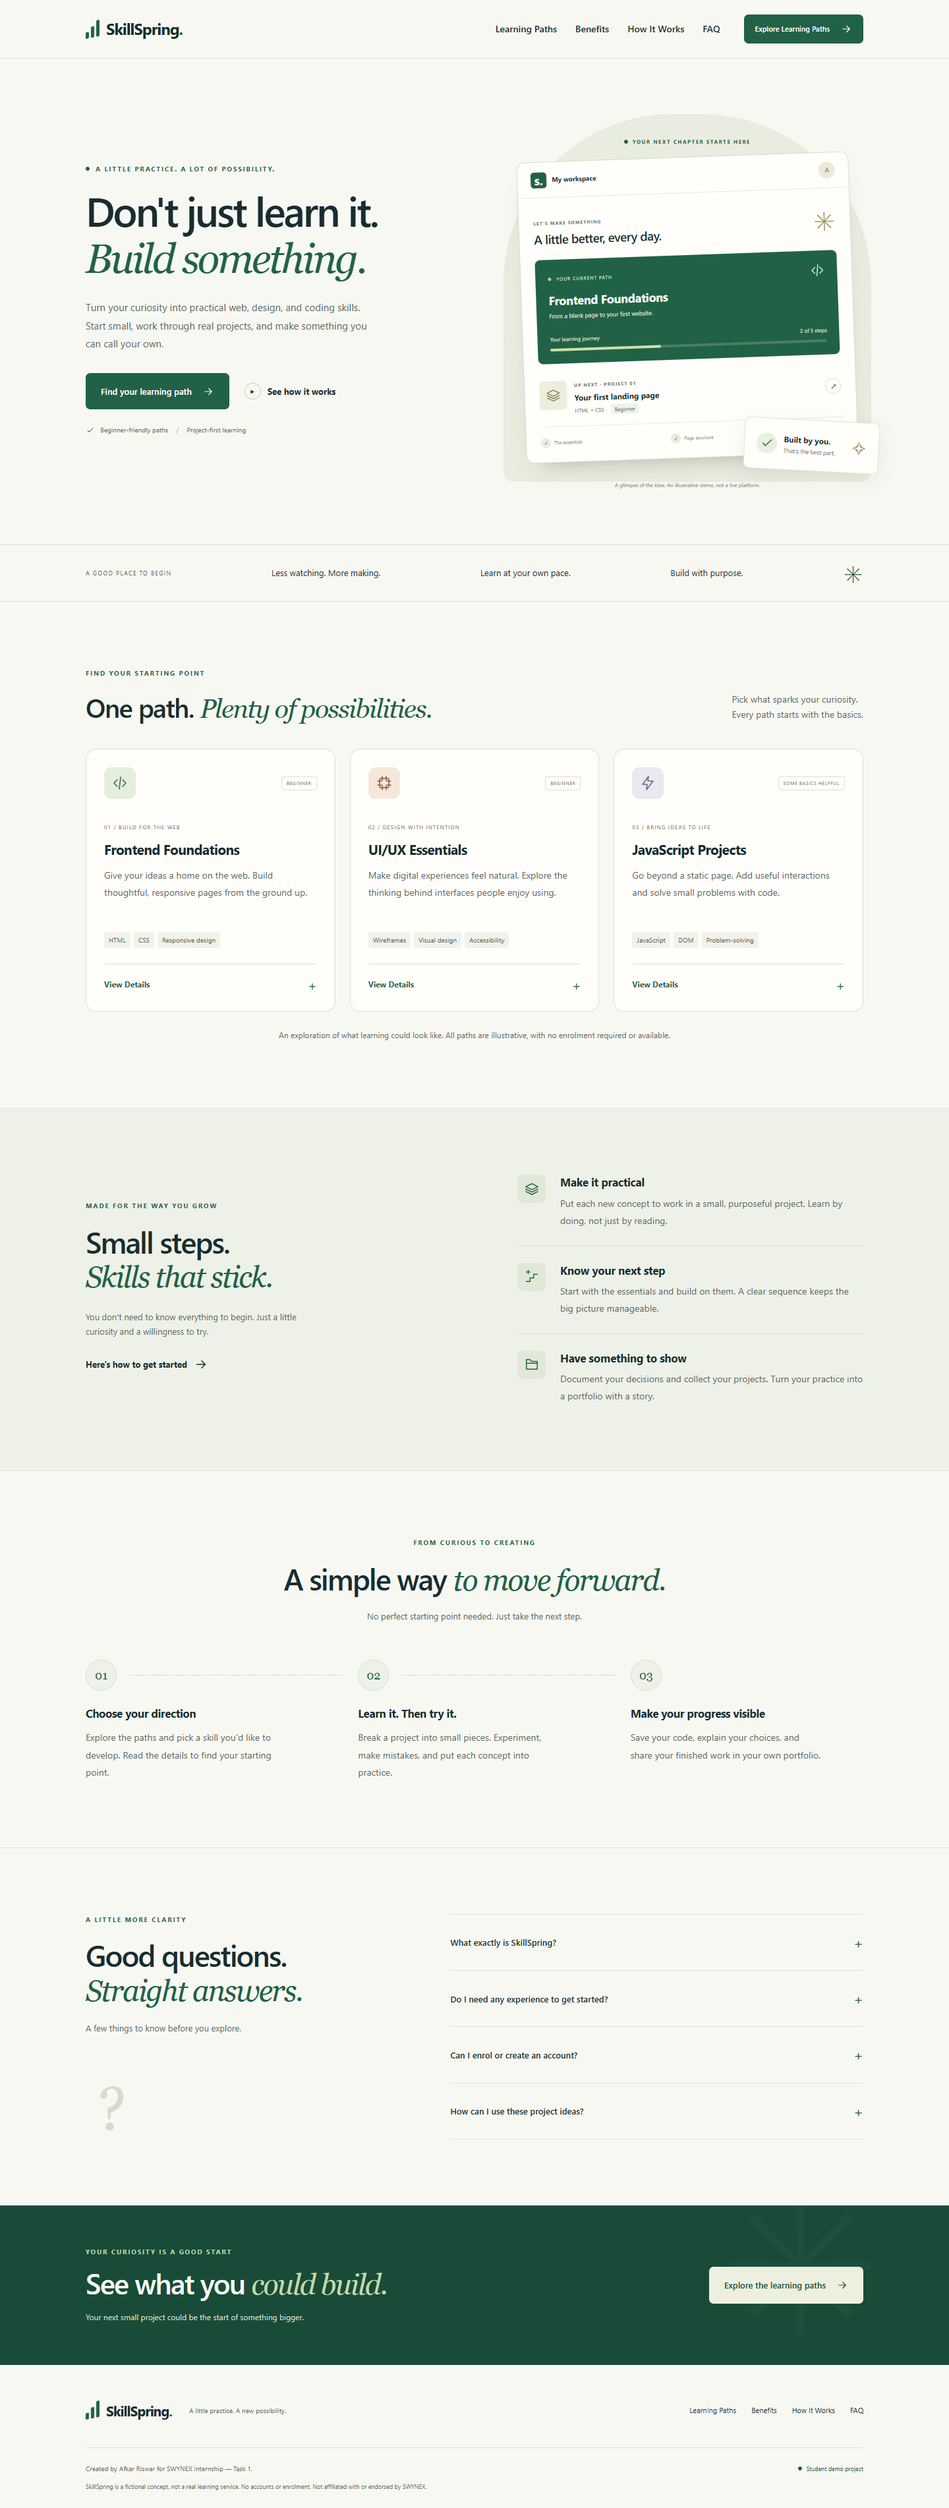
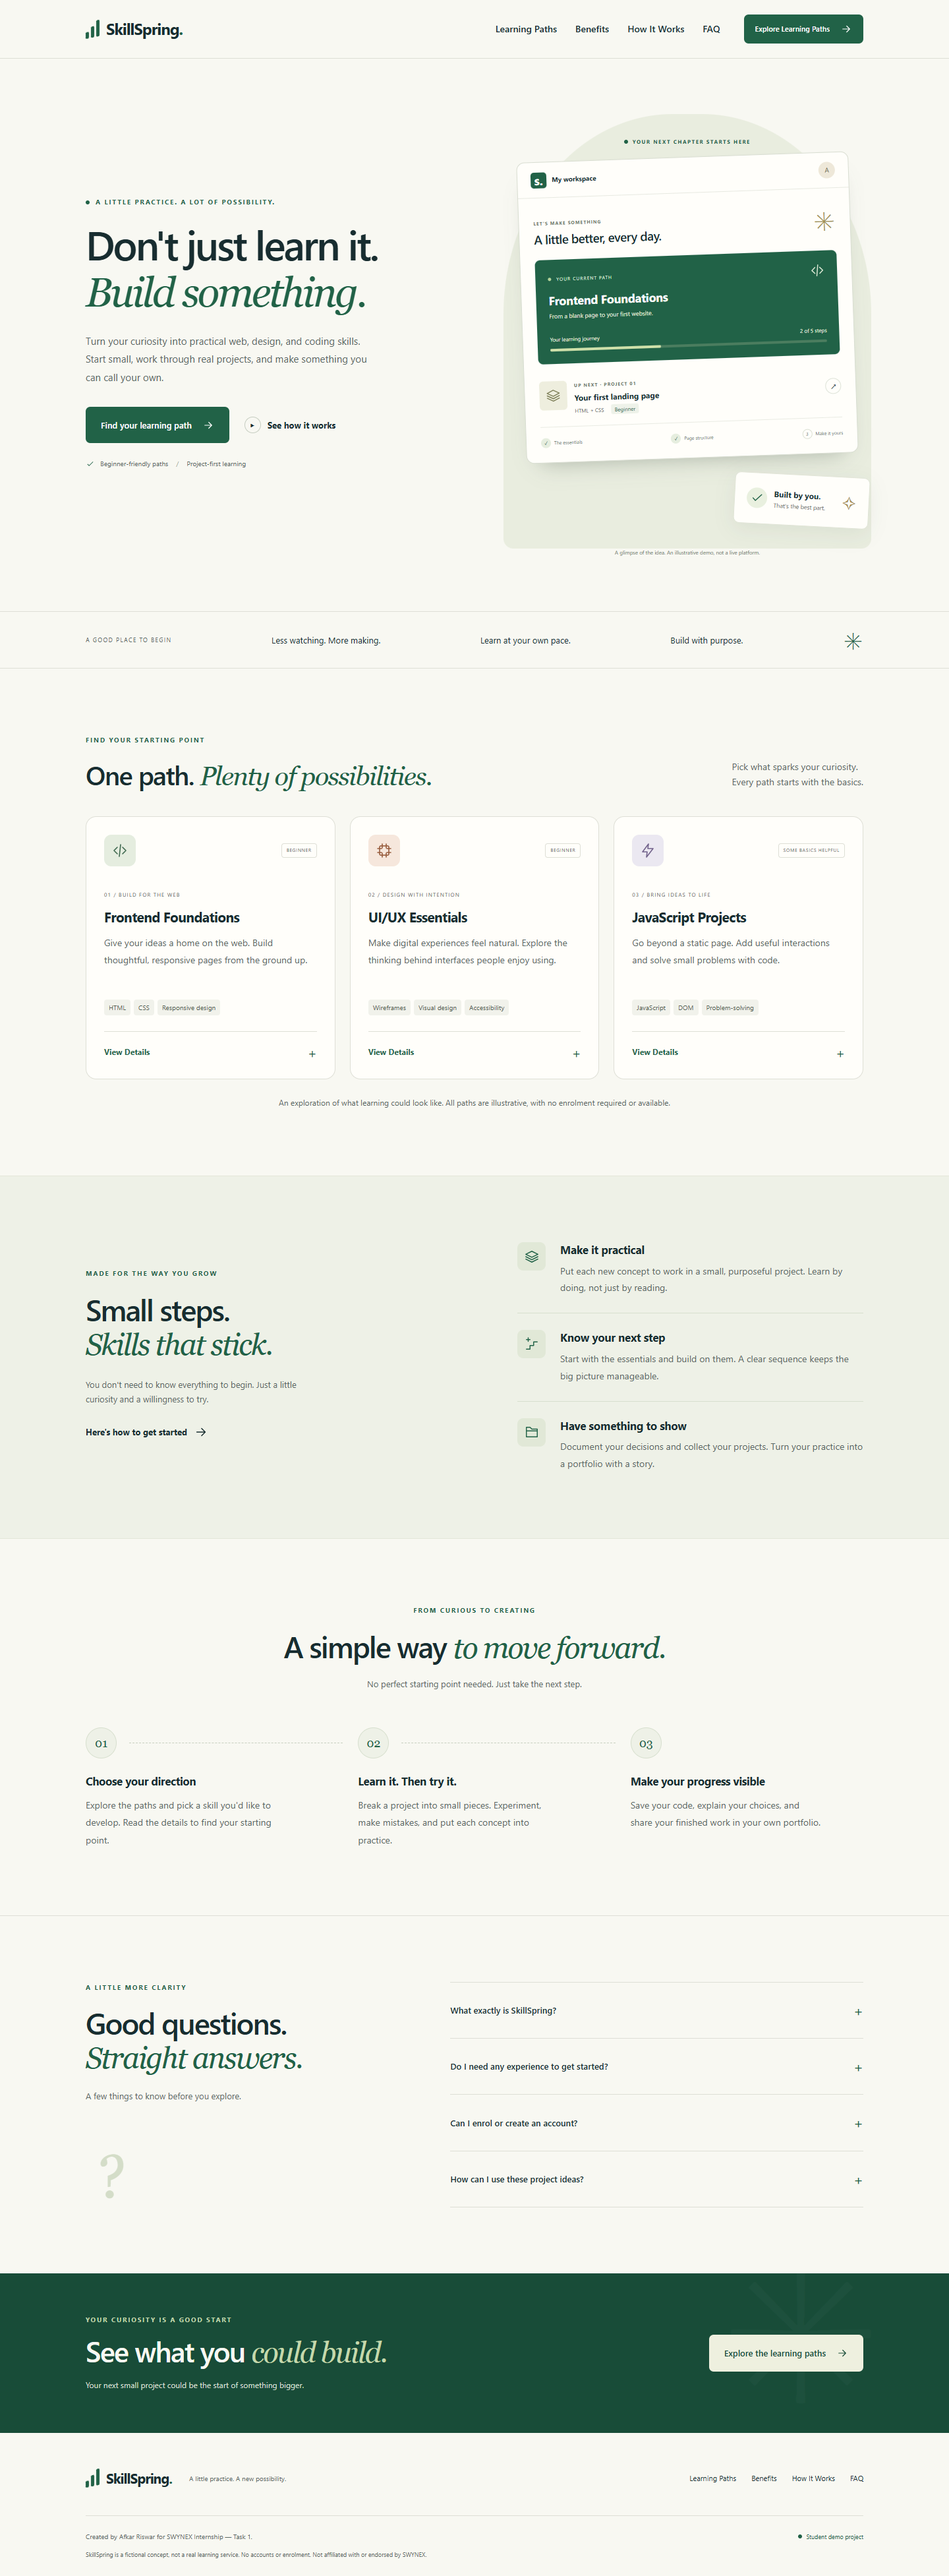
Fix dashboard overlap and focus contrast; clean README

diff --git a/styles.css b/styles.css
@@ -514,9 +514,12 @@ h1 .serif-accent {
   display: flex;
   align-items: center;
   gap: 10px;
-  position: absolute;
+  /* Keep the badge in flow so it cannot cover dashboard learning steps. */
+  position: relative;
+  width: fit-content;
+  max-width: 100%;
+  margin: 24px 0 0 auto;
   right: -24px;
-  bottom: 21px;
   padding: 14px 18px;
   border-radius: 9px;
   background: #fffefa;
@@ -910,6 +913,9 @@ h1 .serif-accent {
 .button-light:hover {
   background: white;
 }
+.final-cta a:focus-visible {
+  outline-color: #eef0df;
+}
 .cta-flower {
   position: absolute;
   right: -34px;
@@ -1272,7 +1278,6 @@ h1 .serif-accent {
   .floating-note {
     padding: 10px 13px;
     right: -9px;
-    bottom: 16px;
   }
   .floating-note strong {
     font-size: 11px;

diff --git a/README.md b/README.md
@@ -26,6 +26,13 @@ This implementation uses semantic HTML5, CSS3, and vanilla JavaScript. It has no
 - Clear fictional-demo disclosures and the required creator attribution.
 - Local SVG favicon and desktop/mobile review screenshots.
 
+## Screenshots
+
+- [Desktop, 1440px](assets/screenshots/desktop-1440.png)
+- [Mobile, 390px](assets/screenshots/mobile-390.png)
+
+Both captures show the updated layout, with the dashboard badge below the learning checklist.
+
 ## File Structure
 
 ```text
@@ -48,7 +55,7 @@ This implementation uses semantic HTML5, CSS3, and vanilla JavaScript. It has no
 Open `index.html` directly in a modern browser, or use a static server. A server is recommended to mirror GitHub Pages:
 
 ```powershell
-# Run from this project folder, not your user-profile folder.
+# Run from the project folder.
 python -m http.server 4173 --bind 127.0.0.1
 ```
 
@@ -73,83 +80,72 @@ Visit **http://127.0.0.1:4173/**. Stop the server with `Ctrl+C`. If Python is un
 - Native `details` and `summary` provide FAQ keyboard behavior without extra JavaScript.
 - Hidden course outlines use the `hidden` attribute, so collapsed content is not exposed as visible content.
 - The dashboard has one descriptive accessible image label. Its decorative inner content and icons are hidden from assistive technology.
-- Dark text on warm light surfaces, visible 3px focus outlines, and generously padded controls support legibility and keyboard use.
+- Dark text on warm light surfaces, visible 3px focus outlines, and generously padded controls support legibility and keyboard use. The dark final CTA uses a light focus outline for contrast.
 - `scroll-padding-top` keeps anchor destinations below the sticky header. `prefers-reduced-motion` disables smooth scrolling and transitions.
 - Without JavaScript, section navigation stays visible and native FAQs still work. The custom collapsible menu and path-card expansion require JavaScript.
 
 ## Testing Results
 
-Tests were run locally using Python's static server and headless installed Google Chrome controlled through Playwright. Testing tools were installed outside the project, not as runtime dependencies.
+Local browser checks used Python's static server, a repository-subdirectory preview, and installed Google Chrome controlled through Playwright. Test tools run outside the project; they are not site dependencies. The layout fix was checked at all five widths below. The focus-ring fix received a separate keyboard/contrast check.
 
 | Check | Actual result |
 | --- | --- |
 | Viewports: 360, 390, 768, 1024, 1440px, each 900px high | Passed DOM/layout and interaction checks at all five widths |
-| Horizontal overflow | None detected at all five widths, including expanded cards |
+| Horizontal overflow and layout | None detected at all five widths, including expanded cards; screenshots visually reviewed; badge no longer overlaps checklist text |
 | Internal links | All fragment targets exist; no empty or bare `#` links |
 | Mobile menu at 360/390px | Opens; closes via toggle, section selection, and Escape; expanded state updates |
 | Escape focus behavior | Focus returns to the menu toggle |
 | Mobile/desktop resize | Menu state resets across the 600px breakpoint |
 | Course cards | All three open and close at each width; hidden/expanded states stay in sync |
 | FAQ | All four toggle using Enter on a focused summary at each width |
-| Keyboard entry | First Tab reaches the skip link; 3px solid focus indicator verified |
+| Keyboard navigation | First Tab reaches the skip link; 19 mobile and 23 desktop tab stops have nonempty labels and visible 3px outlines; mobile keyboard opening, link entry, and Escape focus return passed |
 | Sticky-header offset | Mobile benefits destination appears below the header |
 | Reduced motion | Computed scroll behavior becomes `auto` |
 | Local asset loading | Favicon served successfully; no failed browser resource requests |
 | Browser console and page errors | None observed during the checks |
 | JavaScript syntax | `node --check script.js` passed |
 | Screenshots | Full-page captures visually reviewed at all five widths; 1440px desktop and 390px mobile captures retained in the project |
-| axe-core WCAG 2.0/2.1 A/AA scan | No automated violations at 390px and 1440px; one contrast-check category remained inconclusive and requires manual review, mainly around the decorative rotated illustration |
+| axe-core WCAG 2.0/2.1 A/AA scan | No automated violations at 390px and 1440px; contrast background-sampling results remain incomplete for some decorative regions; calculated colour checks supplement them below |
 | Repository subdirectory | The same browser checks passed under a local `/SWYNEX-Responsive-Landing-Page/` prefix; all three runtime asset paths match filename case exactly |
 | Navigation and CTAs | All 16 internal links were clicked at 390px and 1440px; destinations were visible; card buttons also worked with Space and Enter |
 | Published site and files | Anonymous HTTPS requests succeeded; published HTML, CSS, JavaScript, favicon, and both screenshots matched their tested local files byte for byte |
 | Public repository | Accessible over HTTPS without authentication |
-| Direct live-browser testing | Attempted, but automated Chrome HTTPS navigation returned `ERR_CONNECTION_RESET` in this environment; interaction checks were run against the local repository-subdirectory preview instead |
+| Direct live-browser testing | Automated Chrome still returns `ERR_CONNECTION_RESET` for the live host before loading the page, while anonymous curl HTTPS requests succeed; local and live checks are not treated as equivalent |
 
-Automated checks are not a claim of complete accessibility or universal browser support. The inconclusive contrast results are not counted as passing checks. No physical mobile device, screen reader, Safari, or Firefox testing has been performed.
+### Contrast Investigation
 
-### Manual Review Checklist
+Computed foreground/background colours were inspected and WCAG relative-luminance contrast ratios calculated at all five widths, including expanded course outlines and FAQ answers. Meaningful text inside the decorative dashboard was included; decorative symbols were excluded. All inspected text pairs met their applicable AA text thresholds. Representative normal-text results:
 
-- Open the page in your preferred desktop and phone browsers.
-- Use Tab and Shift+Tab through navigation, CTAs, card buttons, FAQ summaries, and footer links.
-- At mobile widths, open the menu, close it with its button and Escape, and follow each section link.
-- Expand every course and FAQ. Check that text is readable and nothing overlaps.
-- Test at 200% zoom and with your operating system's reduced-motion setting enabled.
-- Check with a screen reader if available; verify landmark names, image description, and expanded states.
-- After publishing, repeat the main checks on the actual GitHub Pages URL, especially asset loading.
+| Text | Foreground | Background | Contrast |
+| --- | --- | --- | --- |
+| Dashboard path title | `#ffffff` | `#216247` | 7.235:1 |
+| Dashboard current-path label | `#dbe8d4` | `#216247` | 5.686:1 |
+| Dashboard micro-labels | `#6a7568` | `#fffefa` | 4.776:1 |
+| Dashboard project metadata | `#596764` | `#fffefa` | 5.864:1 |
+| Dashboard checklist | `#63705f` | `#fffefa` | 5.185:1 |
+| Illustration caption, lowest measured pair | `#6b7569` | `#f8f8f2` | 4.504:1 |
+
+The final CTA's previous brown focus ring measured only 1.914:1 on its dark green background. Its new light ring (`#eef0df` on `#184c38`) measures 8.529:1. All inspected keyboard focus outlines exceeded 3:1 against their surrounding surfaces.
+
+axe-core reports that pseudo-elements prevent it from determining some dashboard backgrounds, and that decoration overlaps some final-CTA text. The dashboard's solid surfaces were checked explicitly. Calculations also account for the CTA flower's low-opacity white overlay; the lowest sampled CTA text ratio with that overlay is 5.921:1. Incomplete automated checks are not relabelled as automated passes.
+
+### Known Limitations
+
+- Direct interactive testing of the public site in automated Chrome remains unavailable in this environment. The same browser can load a control HTTPS site, and curl can download the published site and assets with certificate verification enabled. This is a client/host transport-dependent failure, not a reproduced HTML, CSS, or JavaScript defect; its underlying network cause is unconfirmed. No browser security or TLS verification controls were disabled.
+- Public HTTPS downloads and local browser interaction tests are separate evidence, not a claim of a successful live-browser session.
+- Automated contrast background sampling remains incomplete as described above. Explicit colour calculations do not constitute full accessibility certification.
+- Physical-device, screen-reader, Safari, Firefox, and 200% browser-zoom testing have not been performed.
+- The dashboard and course outlines are illustrative. There are no real accounts, delivered courses, or enrolments.
 
 ## GitHub Pages Deployment
 
-Published under the personal GitHub account **scarface-dmd**, with explicit user authorization. The first Pages build and deployment succeeded, and the live demo URL above was obtained from GitHub's Pages API and verified over public HTTPS. Nothing has been posted on LinkedIn or submitted to the internship form.
-
-- Repository visibility: **Public**.
+- Public repository: [scarface-dmd/SWYNEX-Responsive-Landing-Page](https://github.com/scarface-dmd/SWYNEX-Responsive-Landing-Page).
 - Publishing source: **Deploy from a branch**, **main**, **/ (root)**.
-- Entry point: `index.html` at the repository root.
-- HTTPS: enforced by GitHub Pages.
-- The repository website field points to the verified live demo.
-- The project has its own local Git repository. No files or history from the unrelated parent repository were published.
+- Entry point: `index.html` at the repository root; HTTPS is enforced.
+- GitHub automatically rebuilds and deploys updates pushed to `main`. Deployment status appears in the repository's **Actions** tab; configuration is under **Settings > Pages**.
 
-GitHub manages the Pages build and deployment. Relative stylesheet, script, and favicon paths allow the site to work under the repository subpath. No custom domain, secrets, environment variables, or local build command are required.
+Relative stylesheet, script, and favicon paths support the repository subdirectory. No custom domain, secrets, environment variables, or local build command are required.
 
-### Update the Published Site
+## Assets and License
 
-1. Edit and test files in the project folder, then inspect `git status` and `git diff`.
-2. Stage only the intended changed files, commit, and push to `main`. For example, after editing the README:
-
-```powershell
-git add README.md
-git commit -m "Update project documentation"
-git push origin main
-```
-
-3. Open the repository's **Actions** tab and wait for **pages build and deployment** to finish. Refresh the live demo and verify the changed content. GitHub/CDN updates can take a little time.
-4. To inspect or restore the publishing configuration, go to **Settings > Pages** and select **Deploy from a branch**, **main**, and **/ (root)**, then save if needed.
-
-For a separate copy in your own GitHub account, create a public repository, place these files at its root, and enable the same branch/root settings. Use the actual URL shown by GitHub rather than assuming a domain.
-
-For SWYNEX's **Task submission link**, use the public repository URL at the top of this README. The live demo is also linked there for review.
-
-## Authorship and AI Assistance
-
-This project was prepared for Afkar Riswar with AI assistance from OpenAI's coding assistant through OpenCode. The assistant generated the initial design, HTML/CSS/JavaScript, documentation, and browser-check scripts, and ran automated checks in the supplied workspace. This is not presented as independently authored work. Afkar should review, understand, personalise where appropriate, and follow the internship's AI-assistance disclosure rules before submission.
-
-All illustration and icon assets are included locally; no stock photos, testimonials, customer counts, or partner endorsements are used. No third-party asset library is required. No license has been selected; review your intended licensing before adding a license file.
+The HTML/CSS dashboard, inline SVG icons, favicon, and screenshots are included in this repository. No stock photos or third-party asset library are used. No `LICENSE` file is included; an open-source license has not been selected.
